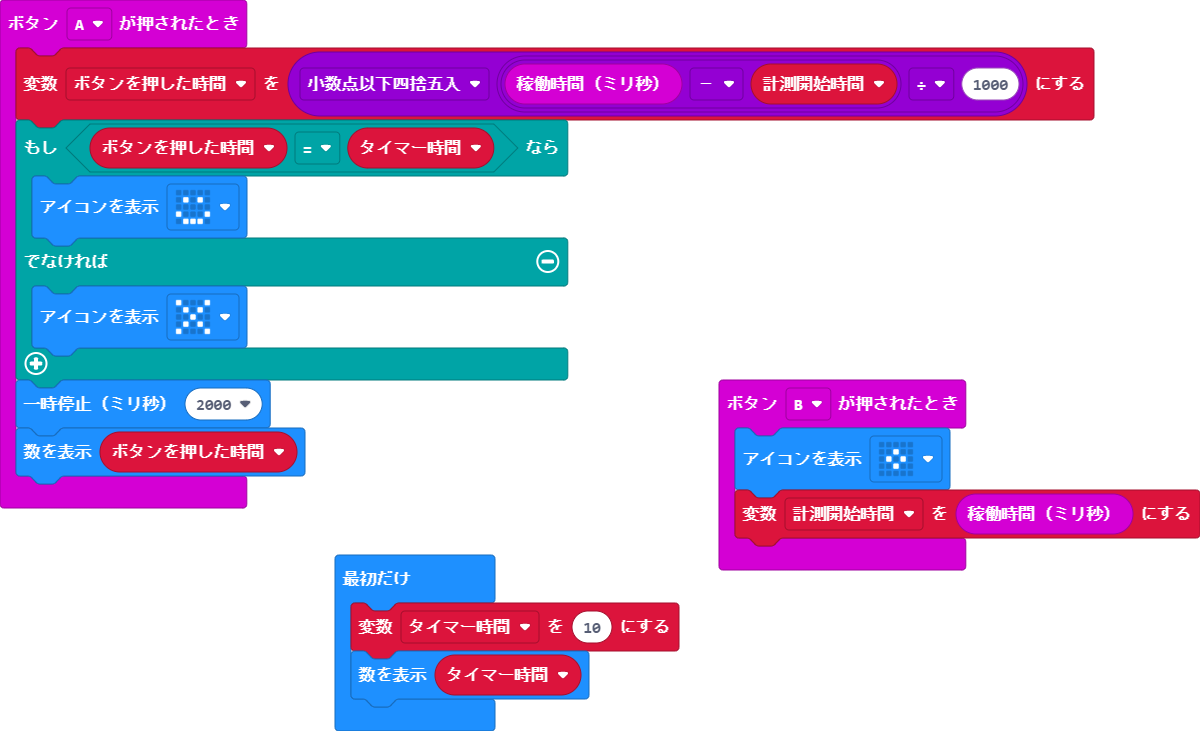
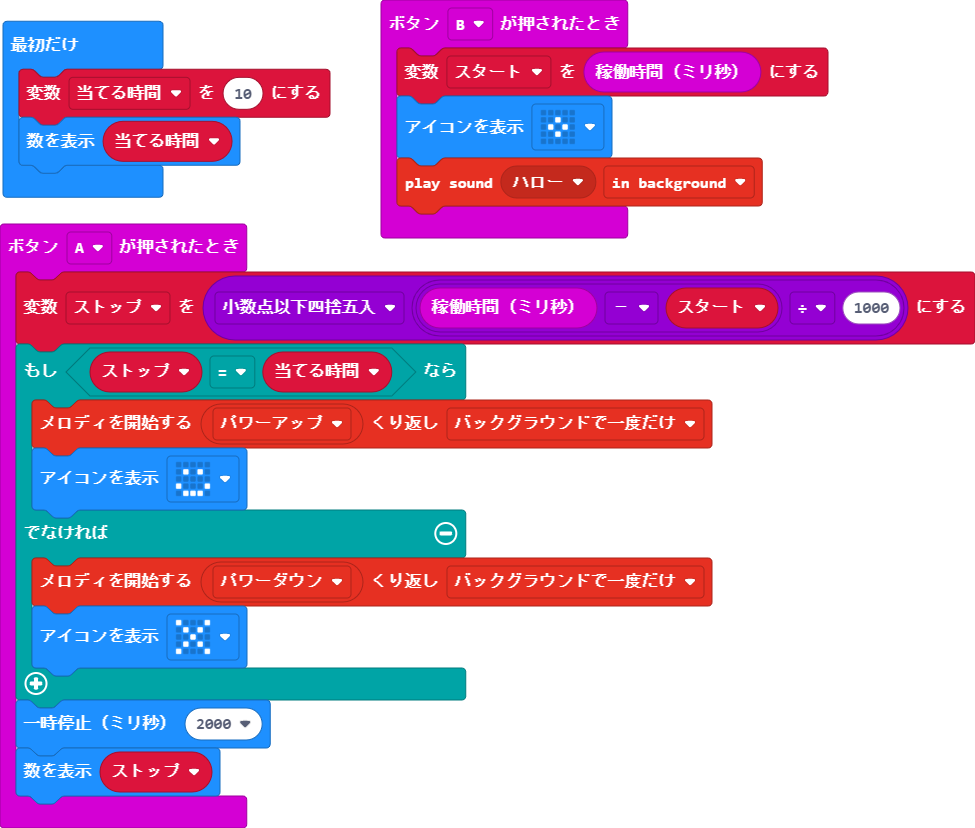
更新 pxt.json, main.blocks, main.ts

diff --git a/main.ts b/main.ts
@@ -1,19 +1,22 @@
 input.onButtonPressed(Button.A, function () {
-    ボタンを押した時間 = Math.round((input.runningTime() - 計測開始時間) / 1000)
-    if (ボタンを押した時間 == タイマー時間) {
+    ストップ = Math.round((input.runningTime() - スタート) / 1000)
+    if (ストップ == 当てる時間) {
+        music.startMelody(music.builtInMelody(Melodies.PowerUp), MelodyOptions.OnceInBackground)
         basic.showIcon(IconNames.Happy)
     } else {
+        music.startMelody(music.builtInMelody(Melodies.PowerDown), MelodyOptions.OnceInBackground)
         basic.showIcon(IconNames.No)
     }
     basic.pause(2000)
-    basic.showNumber(ボタンを押した時間)
+    basic.showNumber(ストップ)
 })
 input.onButtonPressed(Button.B, function () {
+    スタート = input.runningTime()
     basic.showIcon(IconNames.SmallDiamond)
-    計測開始時間 = input.runningTime()
+    music.playSoundEffect(music.builtinSoundEffect(soundExpression.hello), SoundExpressionPlayMode.InBackground)
 })
-let 計測開始時間 = 0
-let ボタンを押した時間 = 0
-let タイマー時間 = 0
-タイマー時間 = 10
-basic.showNumber(タイマー時間)
+let スタート = 0
+let ストップ = 0
+let 当てる時間 = 0
+当てる時間 = 10
+basic.showNumber(当てる時間)
